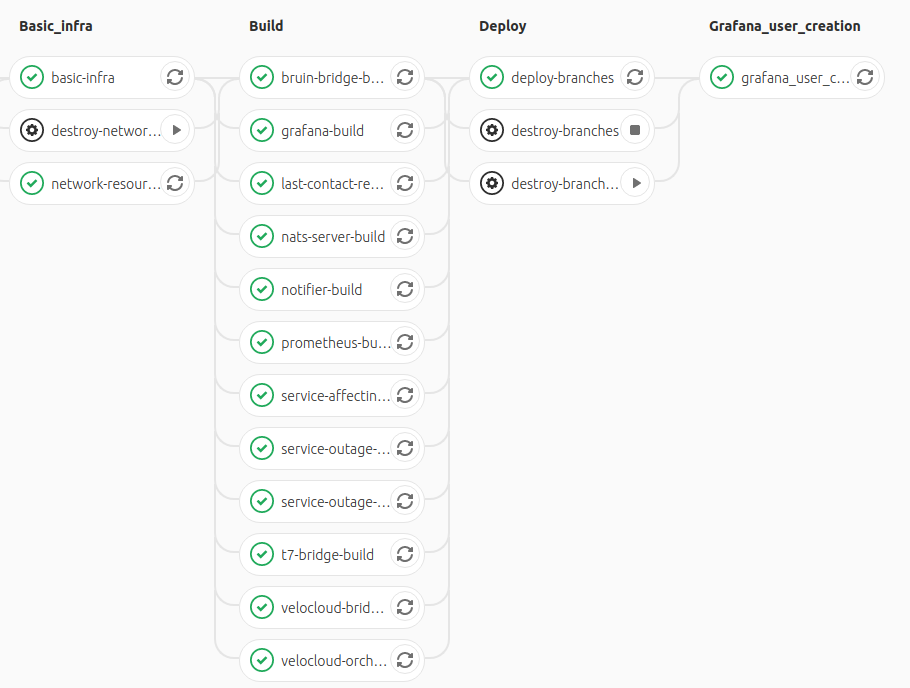
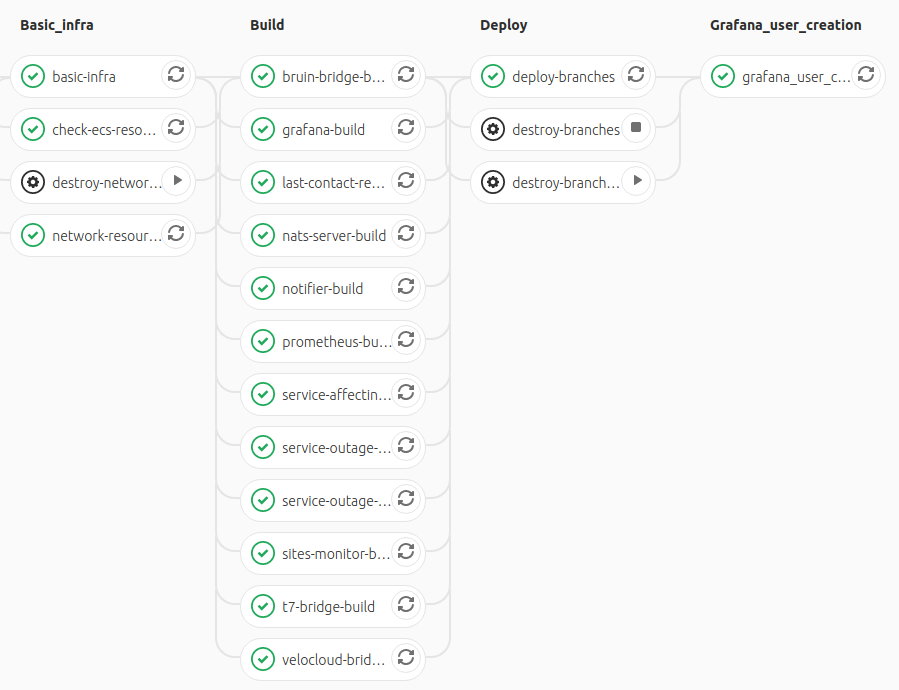
Add necessary variables for check_ecs_resources.py

diff --git a/ci-utils/check_ecs_resources.py b/ci-utils/check_ecs_resources.py
@@ -15,6 +15,20 @@ ENVIRONMENT = os.environ['TF_VAR_ENVIRONMENT']
 
 class CheckECSResources:
     _total_ecs_tasks_allowed = 50
+    _ecs_services_tasks = [os.environ['TF_VAR_bruin_bridge_desired_tasks'],
+                           os.environ['TF_VAR_last_contact_report_desired_tasks'],
+                           os.environ['TF_VAR_metrics_grafana_desired_tasks'],
+                           os.environ['TF_VAR_metrics_prometheus_desired_tasks'],
+                           os.environ['TF_VAR_nats_server_desired_tasks'],
+                           os.environ['TF_VAR_nats_server_1_desired_tasks'],
+                           os.environ['TF_VAR_nats_server_2_desired_tasks'],
+                           os.environ['TF_VAR_notifier_desired_tasks'],
+                           os.environ['TF_VAR_service_affecting_monitor_desired_tasks'],
+                           os.environ['TF_VAR_service_outage_monitor_desired_tasks'],
+                           os.environ['TF_VAR_service_outage_triage_desired_tasks'],
+                           os.environ['TF_VAR_sites_monitor_desired_tasks'],
+                           os.environ['TF_VAR_t7_bridge_desired_tasks'],
+                           os.environ['TF_VAR_velocloud_bridge_desired_tasks']]
 
     def check_ecs_task_conditions(self):
         actual_tasks_deployed = self._check_ecs_clusters_tasks()
@@ -39,31 +53,20 @@ class CheckECSResources:
                          f"{actual_tasks_deployed['tasks_deployed_for_environment']} tasks")
             total_ecs_tasks = (
                     actual_tasks_deployed['total_task_ecs_clusters'] +
-                    tasks_to_be_deployed -
-                    actual_tasks_deployed['tasks_deployed_for_environment']
+                    + tasks_to_be_deployed +
+                    - actual_tasks_deployed['tasks_deployed_for_environment']
             )
         else:
             total_ecs_tasks = actual_tasks_deployed['total_task_ecs_clusters'] + tasks_to_be_deployed
         return total_ecs_tasks
 
-    @staticmethod
-    def _get_tasks_to_deploy():
-        rootdir = os.getcwd()
-        count_tasks = 0
-        for folder, dirs, file in os.walk(rootdir):
-            for files in file:
-                if files.endswith('.tf'):
-                    fullpath = open(os.path.join(folder, files), 'r')
-                    count_services_file = 0
-                    count_tasks_file = 0
-                    for line in fullpath:
-                        if "\"aws_ecs_service\"" in line:
-                            count_services_file += 1
-                        elif "desired_count" in line:
-                            count_tasks_match = re.match(r'.*desired_count \= (?P<counter>\d+)$', line)
-                            count_tasks_file = int(count_tasks_match.group('counter'))
-                    count_tasks += count_tasks_file * count_services_file
-        return count_tasks
+    def _get_tasks_to_deploy(self):
+        desired_tasks = 0
+        for desired_tasks_element in self._ecs_services_tasks:
+            int_desired_tasks_element = int(desired_tasks_element)
+            if int_desired_tasks_element > 0:
+                desired_tasks += int_desired_tasks_element
+        return desired_tasks
 
     def _check_ecs_clusters_tasks(self):
         logging.info("It's going to be checked if there are enough resources to deploy a new ECS cluster in AWS")
@@ -104,8 +107,8 @@ class CheckECSResources:
         environment_already_deployed = False
         total_task_ecs_clusters = 0
         tasks_deployed_for_environment = 0
-        describe_clusters_command = ("aws ecs describe-clusters --cluster " + " ".join(list_clusters_arn) + " --region"
-                                     + " us-east-1").split(" ")
+        cmd = f"aws ecs describe-clusters --cluster {' '.join(list_clusters_arn)} --region us-east-1"
+        describe_clusters_command = (cmd.split(" "))
         get_clusters_information_call = subprocess.Popen(describe_clusters_command, stdout=subprocess.PIPE)
         try:
             clusters_information = json.loads(get_clusters_information_call.stdout.read())
